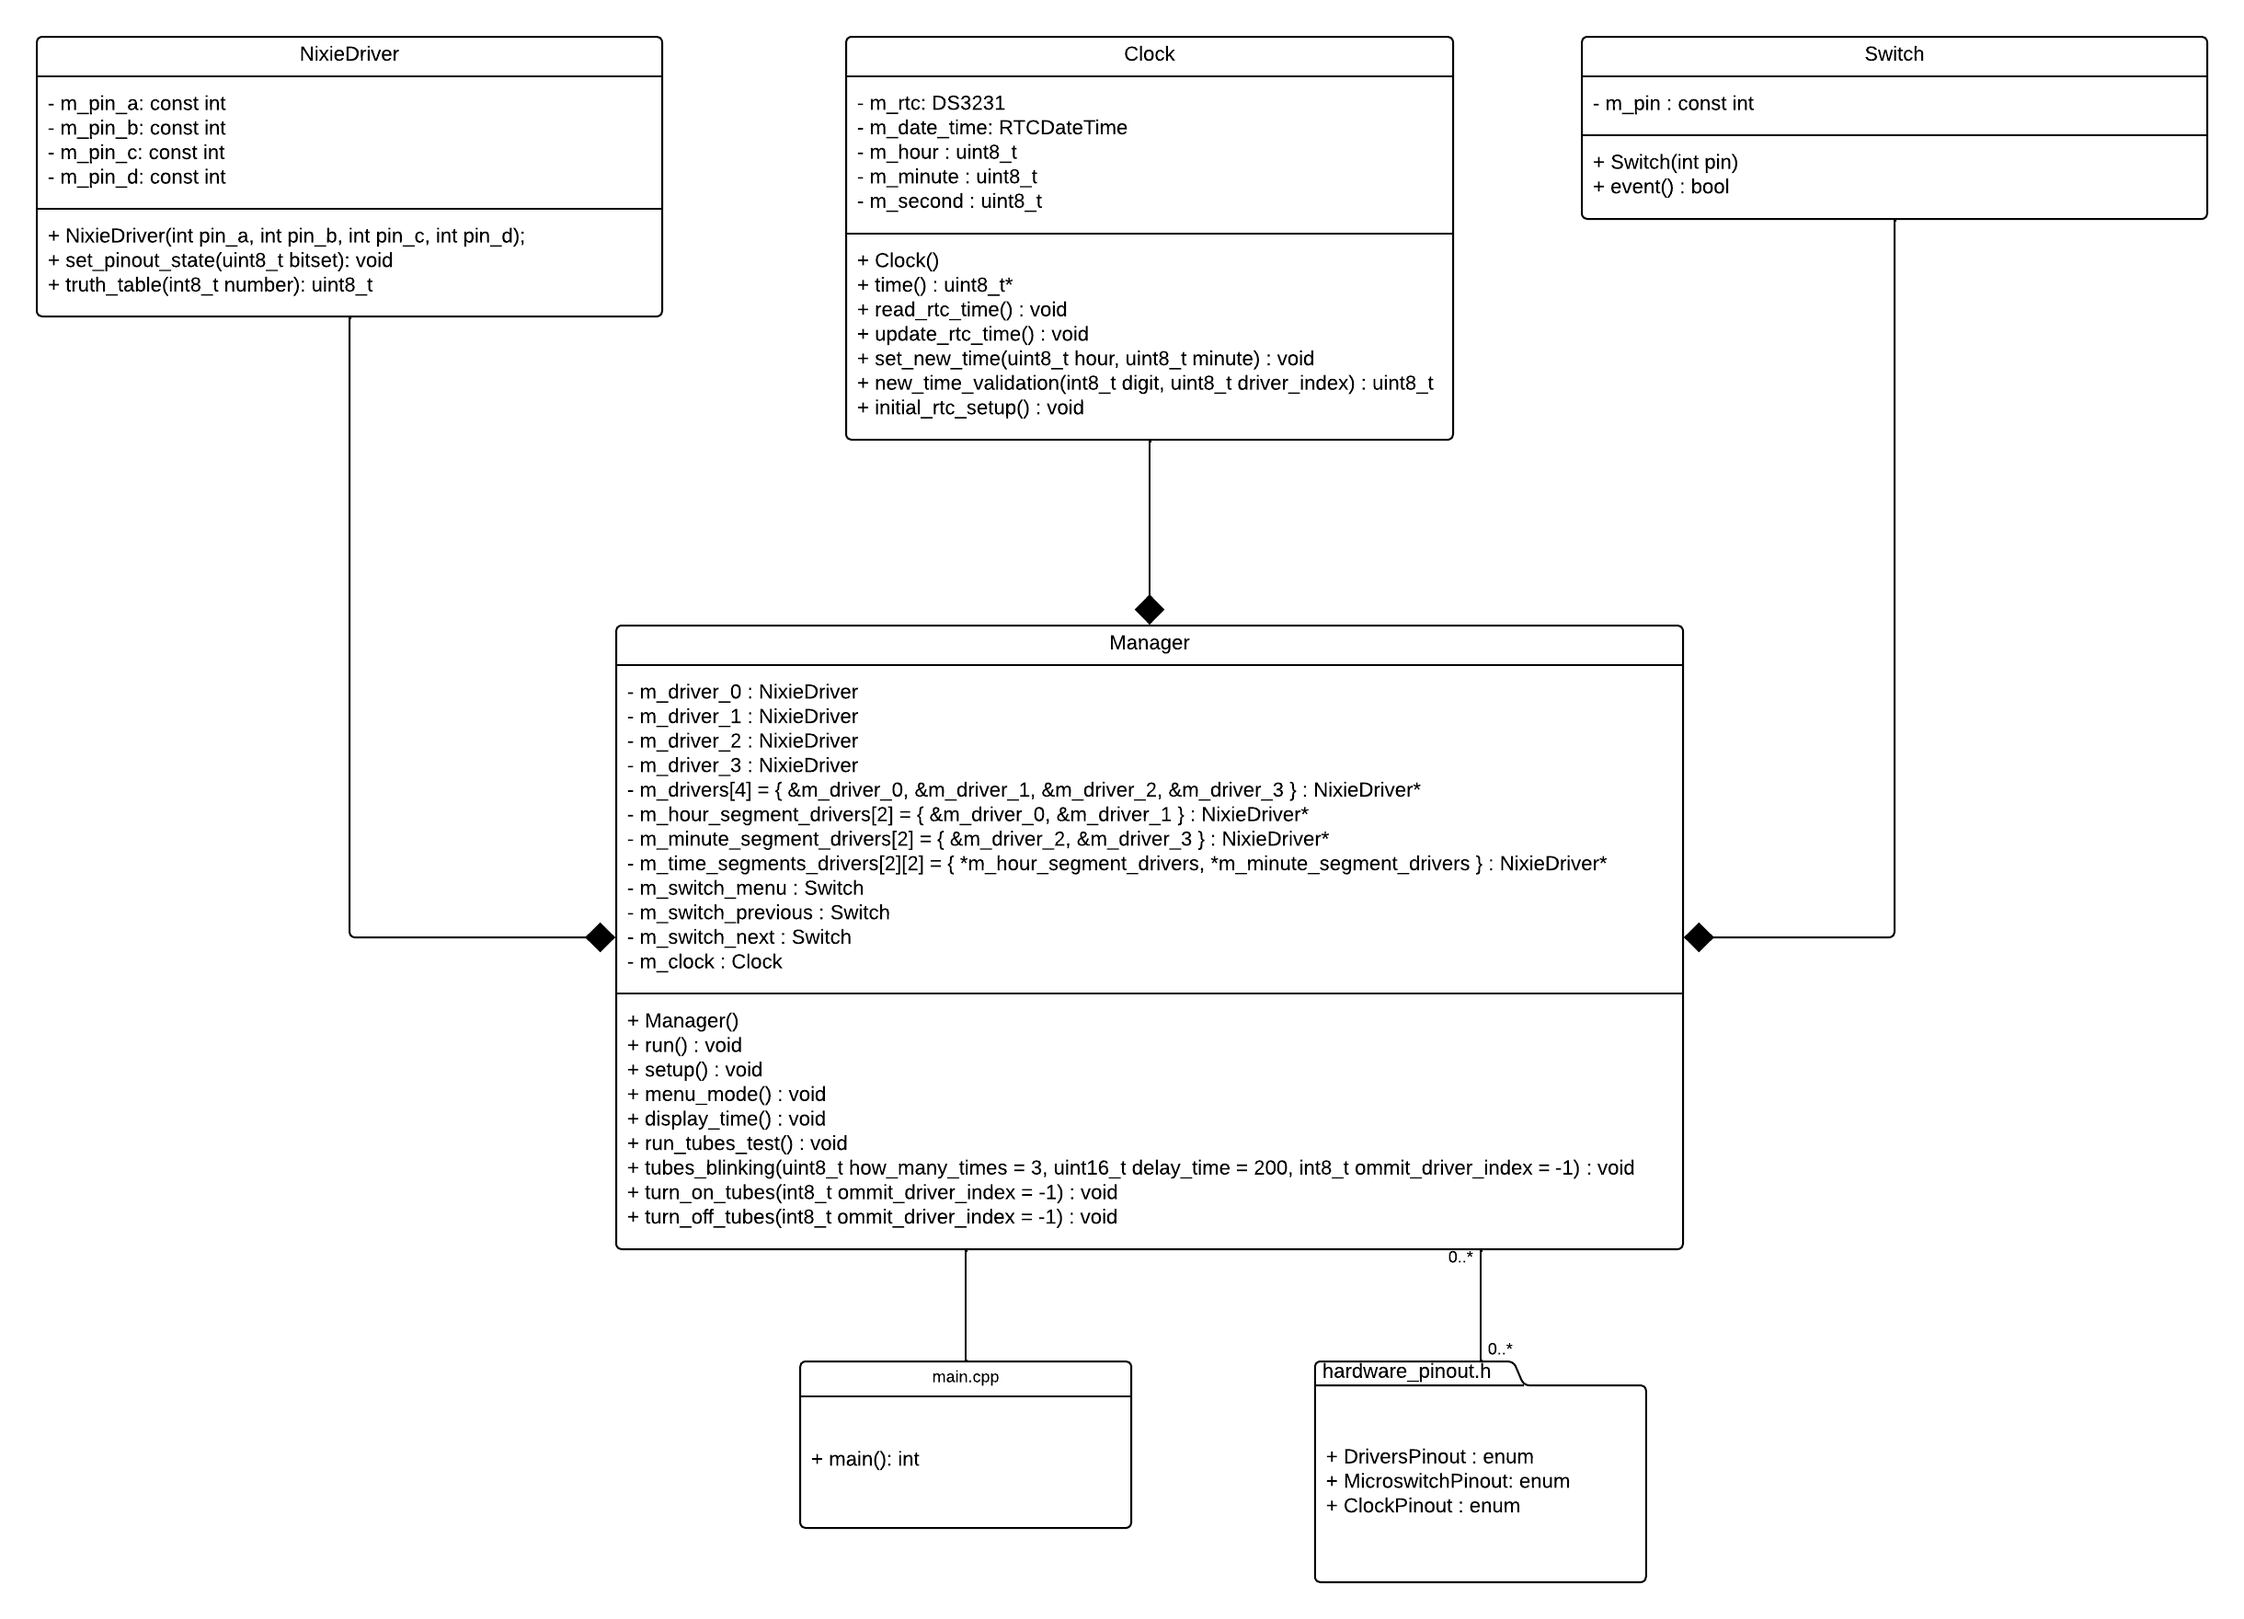
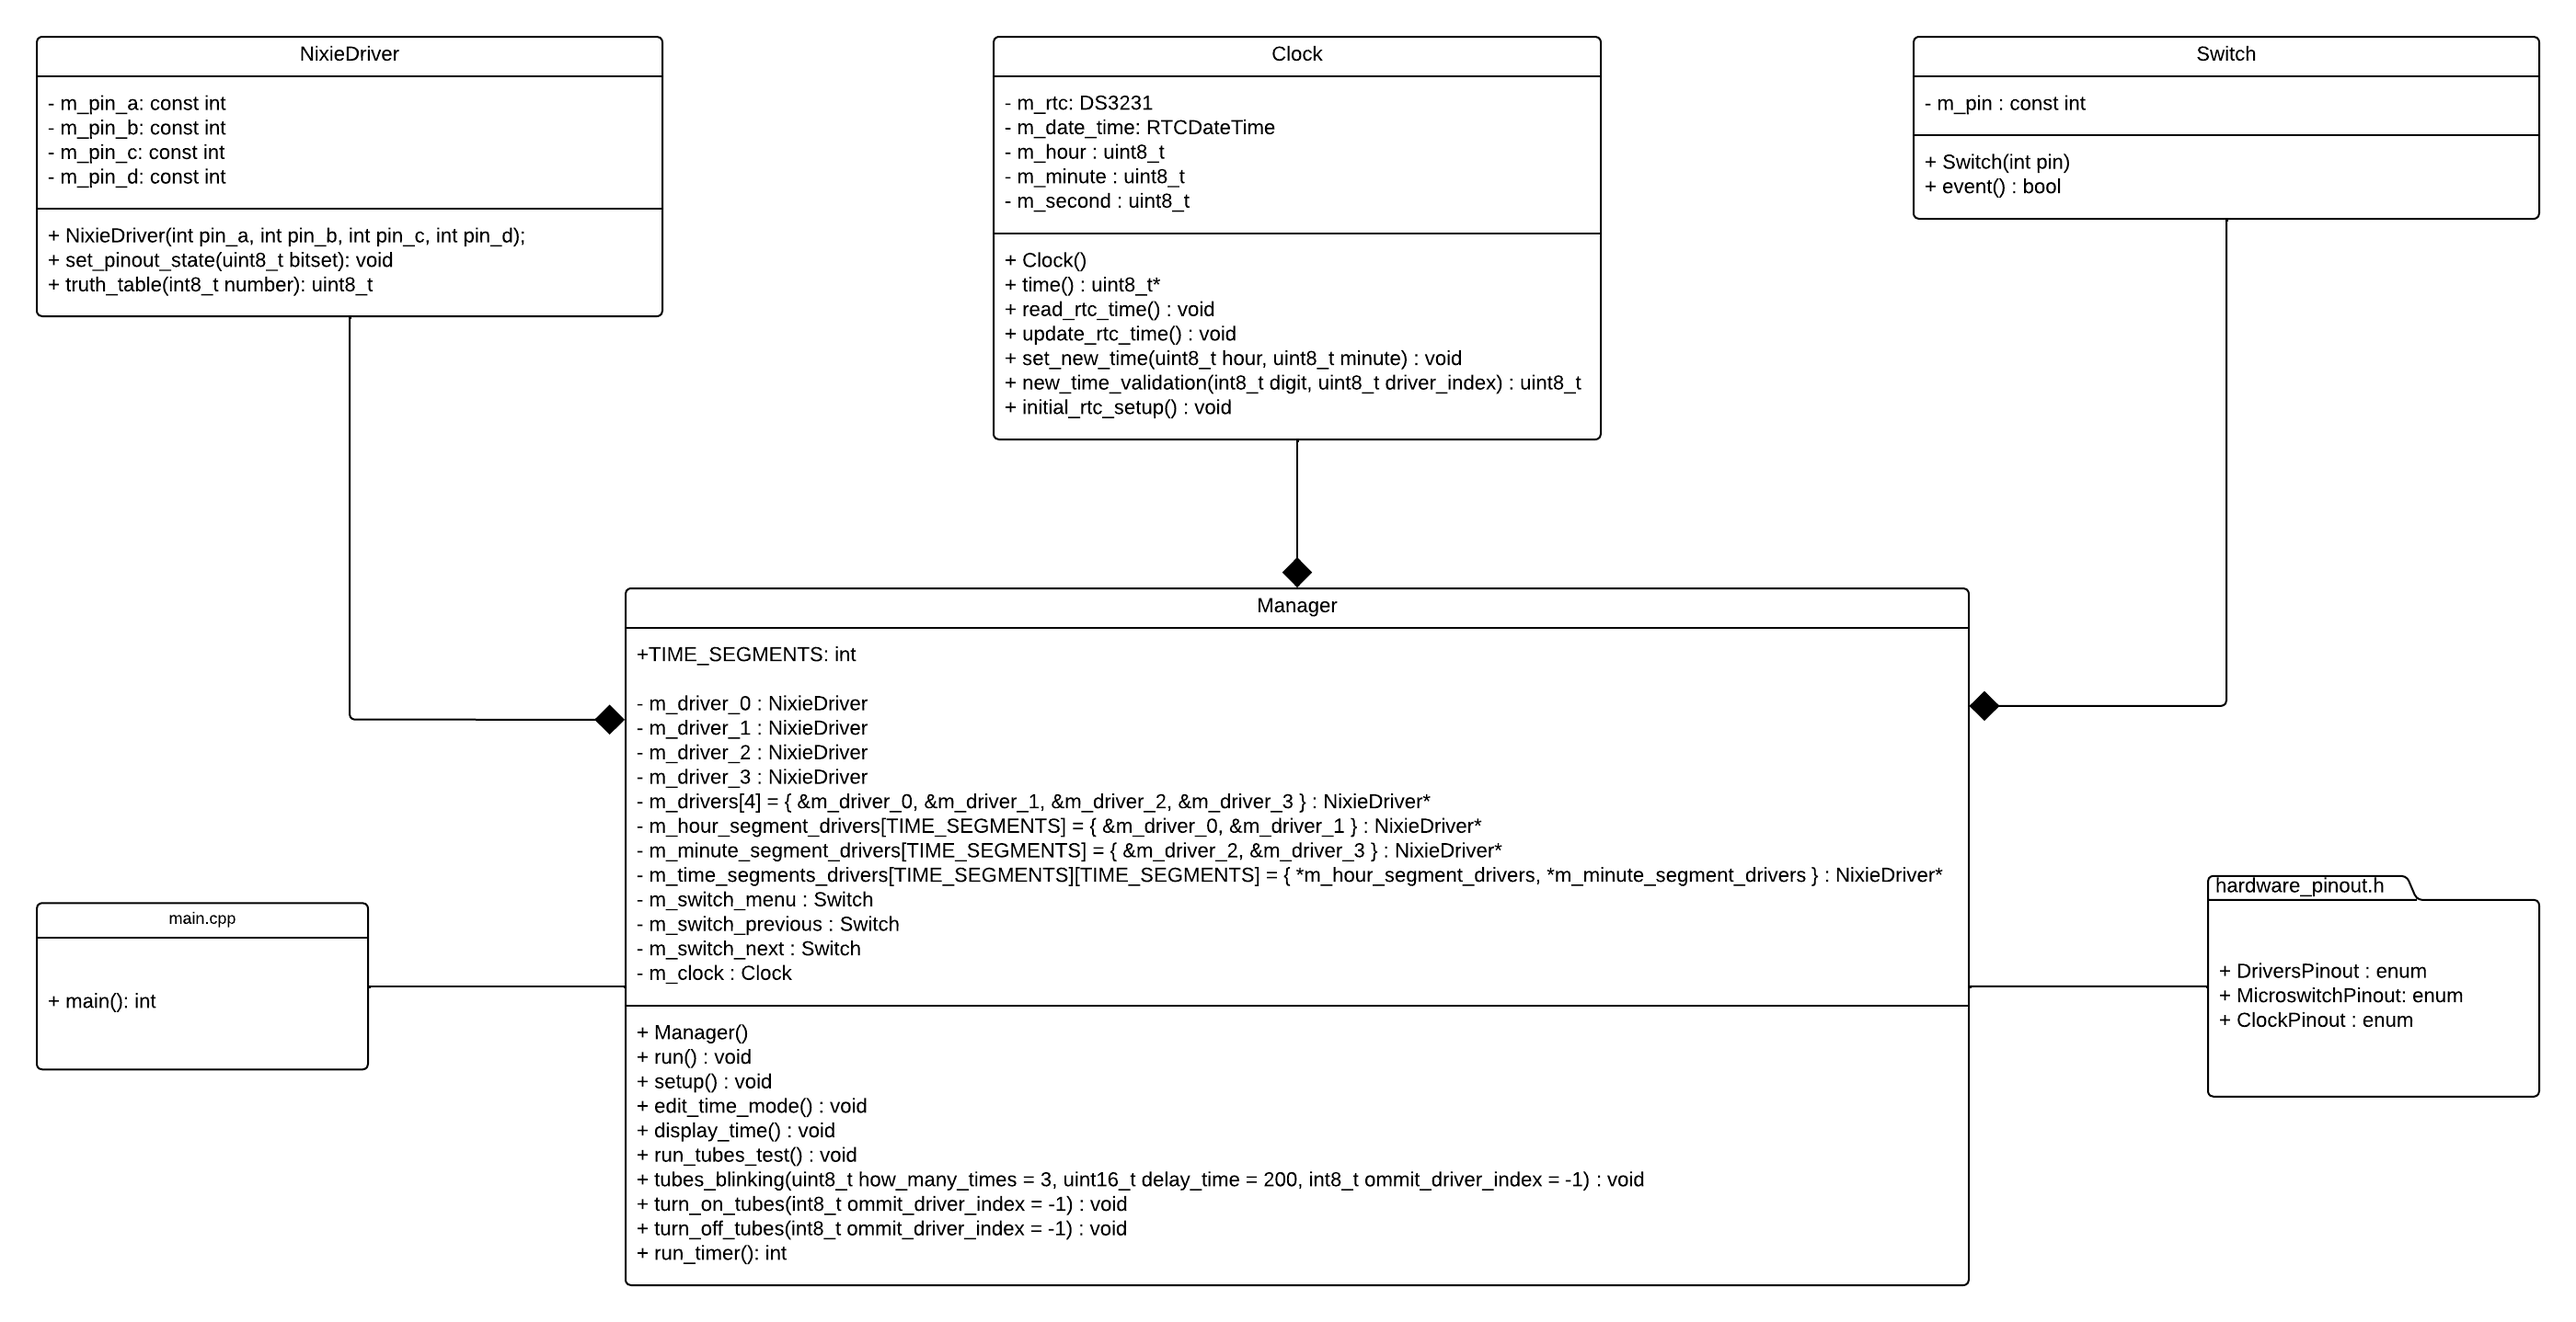
timer, some other small changes aka refactoring

diff --git a/src/manager.cpp b/src/manager.cpp
@@ -6,7 +6,7 @@ m_driver_0(Pin_A0, Pin_B0, Pin_C0, Pin_D0),
 m_driver_1(Pin_A1, Pin_B1, Pin_C1, Pin_D1),
 m_driver_2(Pin_A2, Pin_B2, Pin_C2, Pin_D2),
 m_driver_3(Pin_A3, Pin_B3, Pin_C3, Pin_D3),
-m_switch_menu(Pin_MENU),
+m_switch_edit(Pin_MENU),
 m_switch_previous(Pin_DOWN),
 m_switch_next(Pin_UP),
 m_clock()
@@ -17,7 +17,7 @@ void Manager::run()
     m_clock.read_rtc_time();
     m_clock.update_rtc_time();
     display_time();
-    menu_mode();
+    edit_time_mode();
 }
 
 void Manager::setup()
@@ -45,13 +45,13 @@ void Manager::display_time()
     uint8_t time;
 
     // Loop over time segments drivers
-    for (int i = 0; i < 2; i++)
+    for (int i = 0; i < TIME_SEGMENTS; i++)
     {
         // Determine time segment related to a time segments drivers
         time = m_clock.time()[i];
 
         // Loop over each driver in a current time segments drivers
-        for (int j = 0; j < 2; j++)
+        for (int j = 0; j < TIME_SEGMENTS; j++)
         {
             // Get current driver
             driver = m_time_segments_drivers[i][j];
@@ -68,23 +68,21 @@ void Manager::display_time()
     }
 }
 
-void Manager::menu_mode()
+void Manager::edit_time_mode()
 {
-    if (m_switch_menu.event())
+    if (m_switch_edit.event())
     {
         NixieDriver* driver;
-        uint8_t new_time_buffer[2];
+        uint8_t new_time_buffer[TIME_SEGMENTS];
         uint8_t time_segment_index = 0;
         uint8_t bitset = 0b0000;
         int8_t new_digit = 0;
         int8_t new_time = 0;
-        int start_timer = 0;
-        int stop_timer = 0;
         int idle_time = 0;
         bool is_pressed = false;
         
         // Initialise new_time_buffer with actual RTC time
-        for (int i = 0; i < 2; i++) 
+        for (int i = 0; i < TIME_SEGMENTS; i++) 
         {
             new_time_buffer[i] = m_clock.time()[i];
         }
@@ -112,7 +110,7 @@ void Manager::menu_mode()
                 new_time_buffer[time_segment_index] = new_time;
 
                 // Set new time into drivers digits according to current time segment
-                for (int i = 0; i < 2; i++)
+                for (int i = 0; i < TIME_SEGMENTS; i++)
                 {
                     driver = m_time_segments_drivers[time_segment_index][i];
 
@@ -126,50 +124,55 @@ void Manager::menu_mode()
                 }
             }
 
-            // Start timers if condition met
-            if (m_switch_menu.event() && !is_pressed) 
+            // Start timer
+            if (m_switch_edit.event() && !is_pressed) 
             { 
+                idle_time = run_timer();
                 is_pressed = true; 
-                start_timer = millis();
-
-                // Hold the switch more than 1 second to meet idle_time expectations for exit condition
-                while (m_switch_menu.event())
-                {
-                    stop_timer = millis();
-                    idle_time = stop_timer - start_timer;
-
-                    if (idle_time >= 1000)
-                    {
-                        break;
-                    }
-                }
-
-                stop_timer = millis();
             }
 
-            // If button was released after it was pressed, measure idle_time and determine further instruction
-            if (!m_switch_menu.event() && is_pressed)
-            {
-                idle_time = stop_timer - start_timer;
-                
-                // Save new time in RTC and exit from menu mode, or change tube driver and continue edit mode
-                if (idle_time >= 1000) 
+            // If menu button was pressed, measure idle_time and determine further instruction
+            if (is_pressed)
+            {   
+                // If idle time is greater than 1s, then save new time into rtc and exit menu mode
+                if (idle_time > 1000) 
                 {
                     m_clock.set_new_time(new_time_buffer[0], new_time_buffer[1]);
+                    tubes_blinking();
 
                     return; 
                 }
+                // If idle time is less than 1s, then change time segment of drivers and continue editing
                 else
                 { 
                     time_segment_index = ( time_segment_index >= 1 ) ? 0 : time_segment_index + 1;
                     is_pressed = false;
-                    start_timer = 0;
-                    stop_timer = 0;
                 }
             }
         }
-        tubes_blinking(5);
+        tubes_blinking(2);
     }
+}
+
+int Manager::run_timer()
+{
+    int start_timer = millis();
+    int stop_timer = millis();
+    int idle_time = 0;
+
+    // Hold the switch more than 1 second to meet idle_time expectations for exit condition
+    while (m_switch_edit.event())
+    {
+        if (idle_time > 1000)
+        {
+            break;
+        }
+
+        stop_timer = millis();
+        idle_time = stop_timer - start_timer;
+    }
+
+    return idle_time;
 }
 
 void Manager::tubes_blinking(uint8_t how_many_times, uint16_t delay_time, int8_t ommit_time_segment)
@@ -193,7 +196,7 @@ void Manager::turn_on_tubes(int8_t ommit_time_segment)
     uint8_t digit;
     uint8_t bitset;
 
-    for (int i = 0; i < 2; i++)
+    for (int i = 0; i < TIME_SEGMENTS; i++)
     {
         if (i == ommit_time_segment)
         {
@@ -202,7 +205,7 @@ void Manager::turn_on_tubes(int8_t ommit_time_segment)
         
         time = m_clock.time()[i];
 
-        for (int j = 0; j < 2; j++)
+        for (int j = 0; j < TIME_SEGMENTS; j++)
         {
             current_driver = m_time_segments_drivers[i][j];
             
@@ -221,14 +224,14 @@ void Manager::turn_off_tubes(int8_t ommit_time_segment)
     int8_t digit = -1;
     uint8_t bitset = m_drivers[0]->truth_table(digit);
     
-    for (int i = 0; i < 2; i++)
+    for (int i = 0; i < TIME_SEGMENTS; i++)
     {
         if (i == ommit_time_segment)
         {
             continue;
         }
 
-        for (int j = 0; j < 2; j++)
+        for (int j = 0; j < TIME_SEGMENTS; j++)
         {
             current_driver = m_time_segments_drivers[i][j];
 

diff --git a/include/manager.h b/include/manager.h
@@ -9,6 +9,9 @@
 #define MANAGER_H
 
 
+// This const variable represents a count of time segments -> HH:MM {0: 'HH', 1: 'MM'}
+const uint8_t TIME_SEGMENTS = 2;
+
 class Manager
 {
     private:
@@ -17,11 +20,11 @@ class Manager
         NixieDriver m_driver_2;
         NixieDriver m_driver_3;
         NixieDriver* m_drivers[4] = { &m_driver_0, &m_driver_1, &m_driver_2, &m_driver_3 }; // array of pointers is necessary to store references, not copies
-        NixieDriver* m_hour_segment_drivers[2] = { &m_driver_0, &m_driver_1 };
-        NixieDriver* m_minute_segment_drivers[2] = { &m_driver_2, &m_driver_3 };
-        NixieDriver* m_time_segments_drivers[2][2] = { *m_hour_segment_drivers, *m_minute_segment_drivers };
+        NixieDriver* m_hour_segment_drivers[TIME_SEGMENTS] = { &m_driver_0, &m_driver_1 };
+        NixieDriver* m_minute_segment_drivers[TIME_SEGMENTS] = { &m_driver_2, &m_driver_3 };
+        NixieDriver* m_time_segments_drivers[TIME_SEGMENTS][TIME_SEGMENTS] = { *m_hour_segment_drivers, *m_minute_segment_drivers };
         
-        Switch m_switch_menu;
+        Switch m_switch_edit;
         Switch m_switch_previous;
         Switch m_switch_next;
         
@@ -31,13 +34,13 @@ class Manager
         Manager();
         void run();
         void setup();
-        void menu_mode();
-
+        void edit_time_mode();
         void display_time();
         void run_tubes_test();
         void tubes_blinking(uint8_t how_many_times = 3, uint16_t delay_time = 200, int8_t ommit_time_segment = -1);
         void turn_on_tubes(int8_t ommit_time_segment = -1);
         void turn_off_tubes(int8_t ommit_time_segment = -1);
+        int run_timer();
 };
 
 #endif

diff --git a/src/clock.cpp b/src/clock.cpp
@@ -28,33 +28,30 @@ void Clock::set_new_time(uint8_t hour, uint8_t minute)
     m_rtc.setDateTime(__DATE__, hour, minute);
 }
 
-uint8_t Clock::new_time_validation(int8_t digit, uint8_t time_segment)
+uint8_t Clock::new_time_validation(int8_t time, uint8_t time_segment)
 {
     /* 
-    int8_t digit = Desired digit to be displayed that needs validation
-    uint8_t time_segment = Time format represented as group (HH = 0, MM = 1)
+    int8_t time = Desired time to be displayed on a particular time segment tubes that needs validation, it depends on a 24h time format.
+    uint8_t time_segment = Time segment represented as a particular group {0: 'HH', 1: 'MM'}
     */
-    uint8_t valid_digit;
+    uint8_t valid_time;
 
     switch (time_segment)
     {
         case 0:
-            if (digit > 23) { valid_digit = 0; }
-            else if (digit < 0) { valid_digit = 23; }
-            else { valid_digit = digit; }
+            if (time > 23) { valid_time = 0; }
+            else if (time < 0) { valid_time = 23; }
+            else { valid_time = time; }
             break;
         
         case 1:
-            if (digit > 59) { valid_digit = 0; }
-            else if (digit < 0) { valid_digit = 59; }
-            else { valid_digit = digit; }
-            break;
-
-        default:
+            if (time > 59) { valid_time = 0; }
+            else if (time < 0) { valid_time = 59; }
+            else { valid_time = time; }
             break;
     }
     
-    return valid_digit;
+    return valid_time;
 }
 
 void Clock::initial_rtc_setup()
